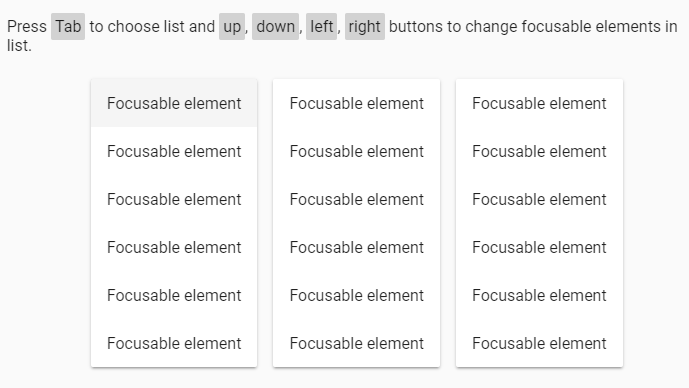
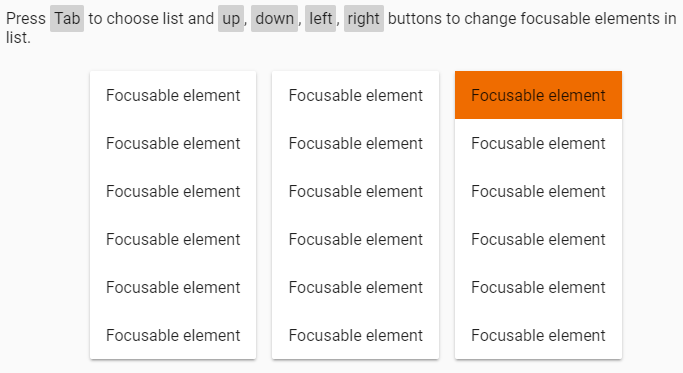
[update scrennshot, example, readme.md]

diff --git a/examples/app/focused/focused-example.component.html b/examples/app/focused/focused-example.component.html
@@ -9,7 +9,7 @@
     <span class="button">right</span> {{ 'EXAMPLES.TO_CHANGE_FOCUSABLE_ELEMENTS' | translate }}.</p> <!-- buttons to change focusable elements in list -->
 
 <div fxLayout="row" fxLayoutAlign="center center">
-    <mat-card pipFocused pipFocused-color="rgba(255, 255, 255, 1)">
+    <mat-card pipFocused>
         <mat-list class="pip-menu pip-ref-list" style="padding: 0px">
             <mat-list-item class="pip-focusable" tabindex="-1">{{ 'EXAMPLES.FOCUSABLE_ELEMENT' | translate }}</mat-list-item>
             <mat-list-item class="pip-focusable" tabindex="-1">{{ 'EXAMPLES.FOCUSABLE_ELEMENT' | translate }}</mat-list-item>

diff --git a/README.md b/README.md
@@ -4,7 +4,29 @@
 
 Pip.WebUI.Behaviors module contains behaviors that can be attached to existing controls or pages
 
-* **Focusable** - allows to navigate over focusable controls using arrow keys
+* **Focusable** - allows to navigate over focusable controls using arrow keys.
+
+**Using** 
+
+To color div with orange color by pressing arrow buttons
+
+```html
+<div pipFocused focusedColor="orange">
+    <div class="pip-focusable">Focusable</>
+    <div class="pip-focusable">Focusable</>
+    <div class="pip-focusable">Focusable</>
+    <div class="pip-focusable">Focusable</>
+    <div class="pip-focusable">Focusable</>
+</div>
+```
+
+**More generalized example in the image**
+
+<a href="https://github.com/pip-webui2/pip-webui2-behaviors/raw/master/doc/images/focused.png" style="display: block; text-align: center;">
+    <img style="max-width: 300px" src="https://github.com/pip-webui2/pip-webui2-behaviors/raw/master/doc/images/focused.png"/>
+</a>
+
+
 * **Selectable** - allows to navigate over non-focuseable elements using arrow keys
 * **Draggable** - implements drag & drop functionality
 * **Infinite Scroll** - allows to upload data in chunks while user is scrolling
